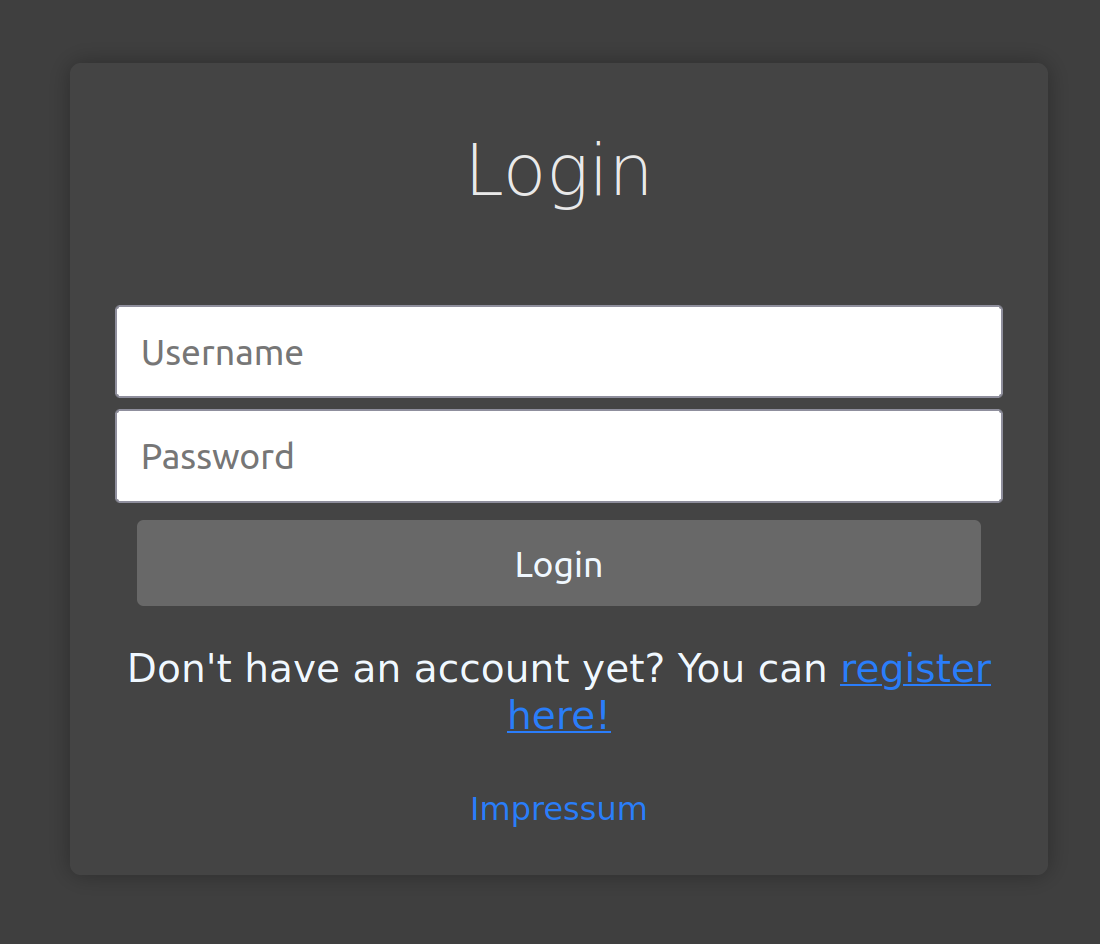
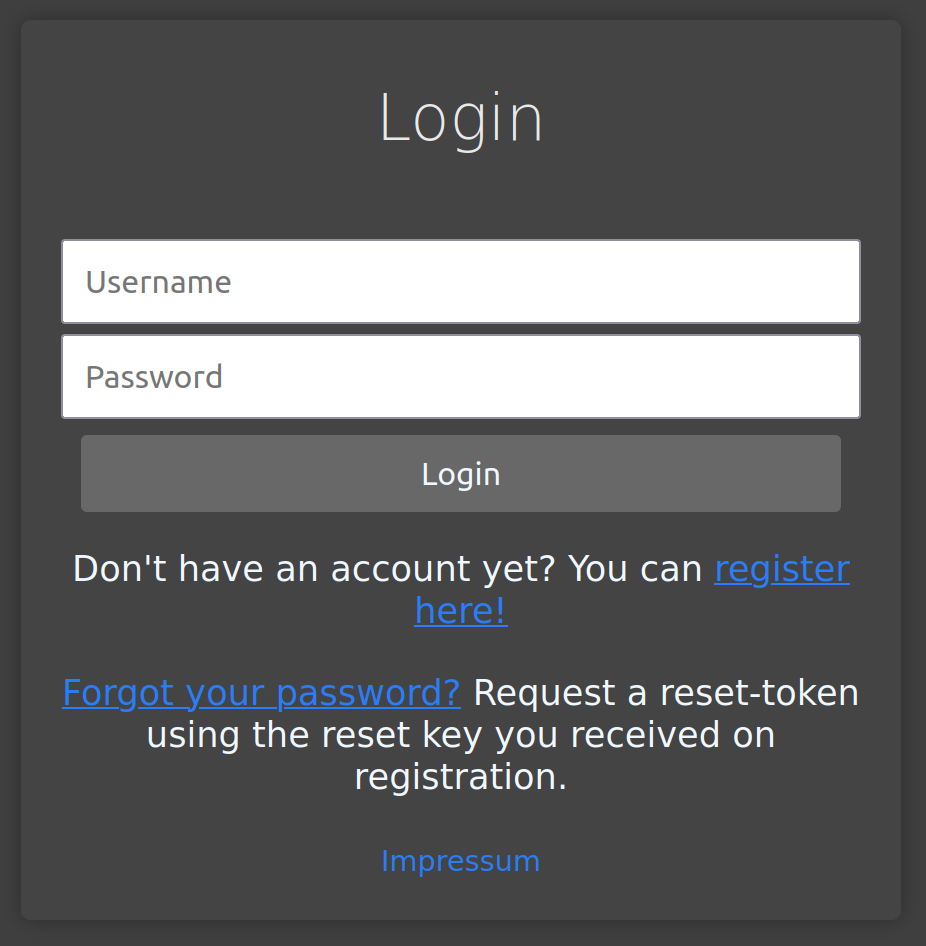
Update README

Changed region(s): [[0.0605, 0.2458, 0.9374, 0.9216], [0.3931, 0.0922, 0.6048, 0.215]]

diff --git a/README.md b/README.md
@@ -35,22 +35,28 @@ At this point, the feature set of Curious Camel is limited. To maintain courses 
 
 #### Registration
 
-At the current stage, learners should know which course they want to attend pre-registration. At registration, learners can select their course in a dropdown menu. On registration, learners must also select, whether they want their intermediate steps to be stored in the database and whether they allow the usage of their system data for research purposes. 
+At registration, learners have to enter an email-adress for account verification. The email-adress is only stored until the user has succesfully verified (afterwords it will be hashed and encrypted for cases of a password reset).  On registration, learners must select, whether they want their intermediate steps to be stored in the database and whether they allow the usage of their system data for research purposes. 
 
-![register](doc/pictures/register.png "Title Text"){width=300}
+![register](doc/pictures/register.png "Register"){width=300}
 
 
 #### Login
 
-Users can log in to the selected course with their username and password. At this moment, passwords cannot be reset.
+Users can log in to the selected course with their username and password. 
 
-![login](doc/pictures/login.png "Title Text"){width=300}
+![login](doc/pictures/login.png "Login"){width=300}
+
+#### Reset Password
+
+To reset their password users have to enter their mail, their username and the password reset token they received via email on registration.
+
+![forget password](doc/pictures/forgot_password.png "Forgot password"){width=300}
 
 #### Tutoring View
 
 The tutoring view is the main view within a particular course. It allows for solving and navigating tasks. The task description is displayed in the upper left corner, different feedback and result types are displayed in the lower left corner. On the right side, the code editor allows for entering solutions to tasks. The action panel on the bottom allows for three actions: "Run", "Feedback" and "Submission". 
 
-![tutoring view](doc/pictures/tutoring_view.png "Title Text"){width=500}
+![tutoring view](doc/pictures/tutoring_view.png "Tutoring View"){width=500}
 
 
 The "Run" button allows for the execution of the learner program with custom parameters. The "Submit" functionality will run unit tests on the current solution and display the results to the learner in the feedback panel. The "Feedback" button will send a Feedback request to the backend. Depending on the course settings, feedback on the current learner program will then be generated.
@@ -60,7 +66,7 @@ The "Run" button allows for the execution of the learner program with custom par
 The user profile can be reached over the navigation bar. It displays basic information about the user profile. Also, the user profile allows for reviewing and re-setting the data-collection preferences that were originally set during registration.
 
 
-![profile](doc/pictures/profile.png "Title Text"){width=300}
+![profile](doc/pictures/profile.png "Profile View"){width=300}
 
 ### Admins
 
